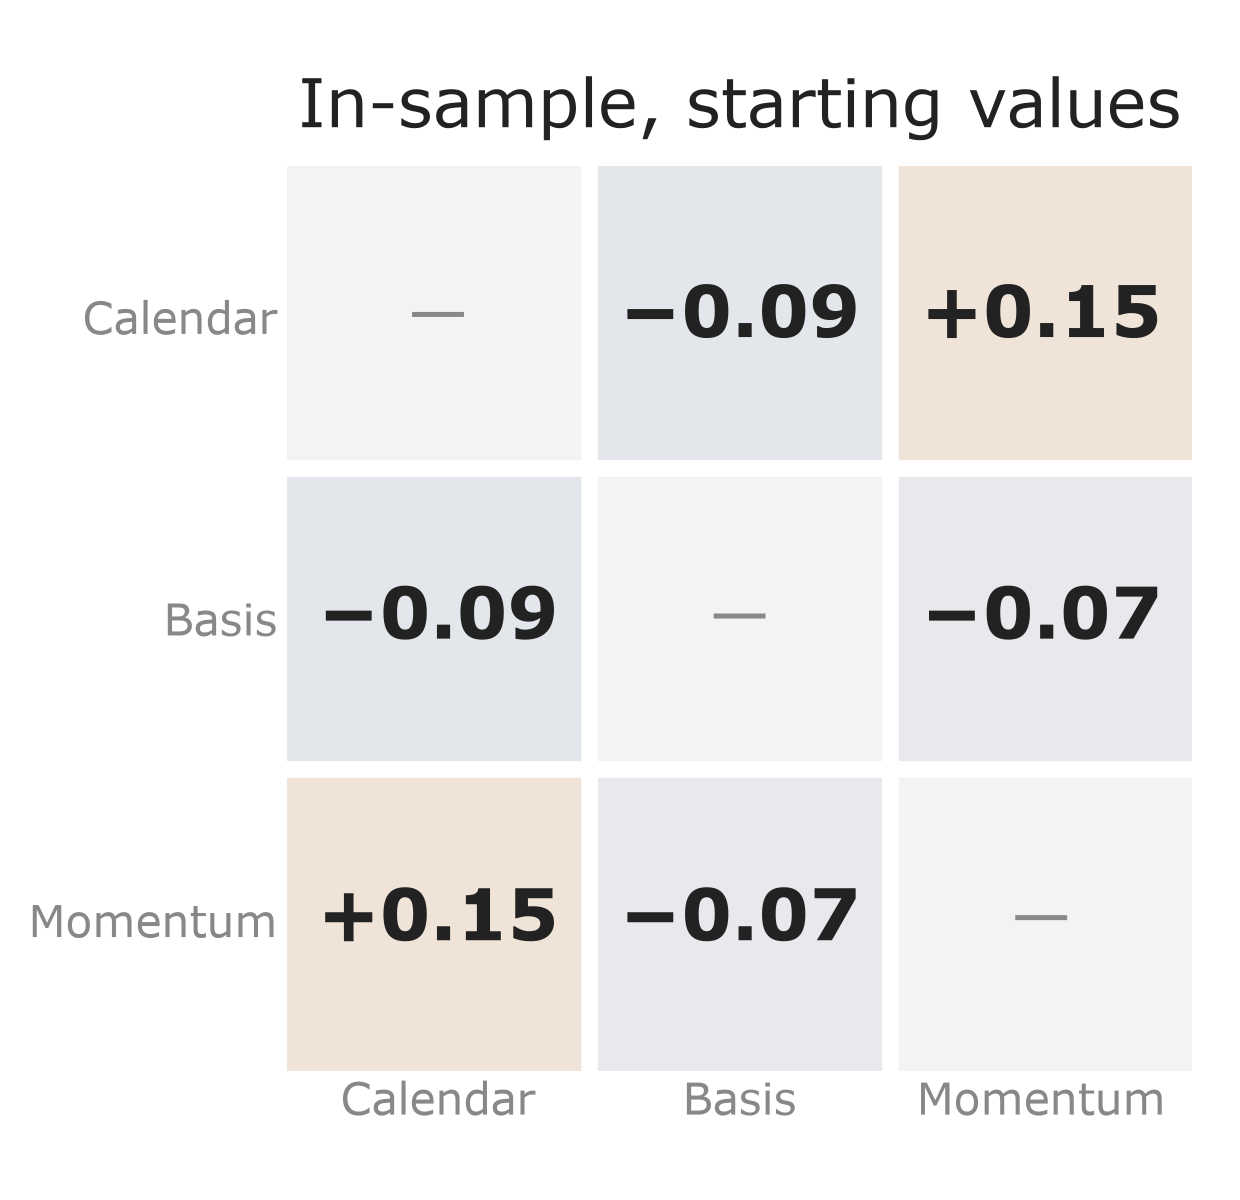
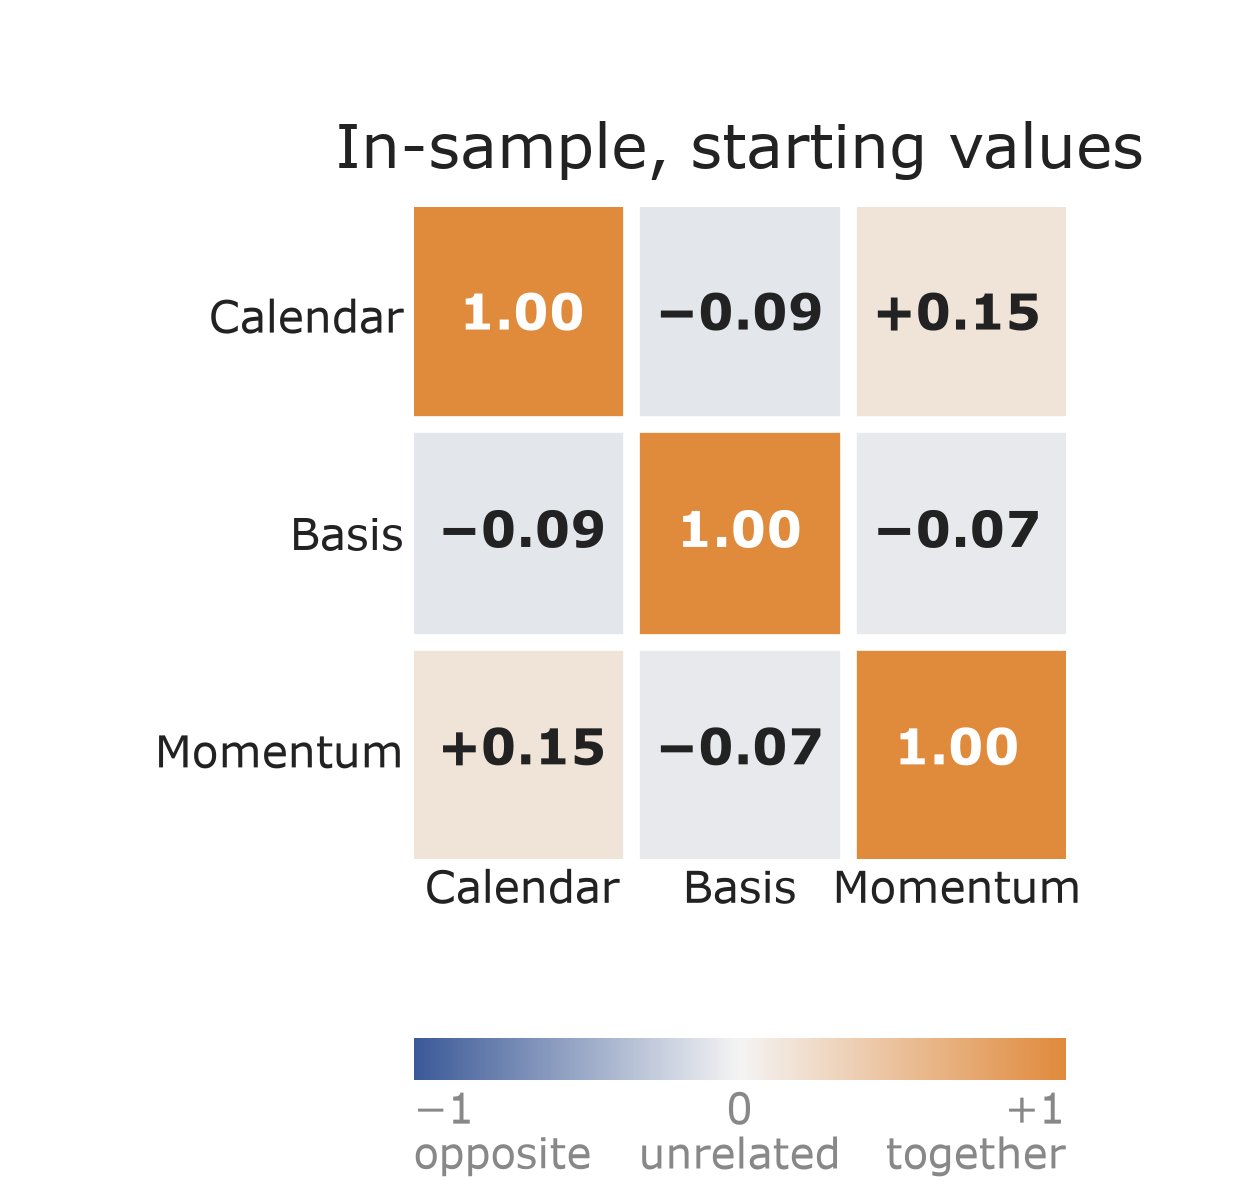
feat(figures): full 3x3 correlation matrix with its own scale; yearly in-sample profit as grouped bars

Changed region(s): [[0.0306, 0.0617, 0.9806, 0.9867]]

diff --git a/scripts/plot_calibrum_1m.py b/scripts/plot_calibrum_1m.py
@@ -9,6 +9,7 @@
 - period_equity_<period>_*.png (steps 5 and 6): one period at a time with the
   step-5 parameters, the same two panels, every curve starting at zero at the
   period's first session.
+- yearly_in_sample.png (step 4): in-sample net profit by year of the seven combinations.
 - correlation_*.png: daily-profit correlation of the sleeves as heatmaps
   (in-sample with the starting values; each period with the step-5 ones).
 
@@ -207,10 +208,10 @@ def draw_period(source: Path, start: str, end: str, out_stem: Path, size_px: tup
 
 
 def draw_correlation(matrices: dict[str, dict], out: Path, size_px: tuple[int, int]) -> Path:
-    """Daily-profit correlation of the three sleeves as heatmaps, one per title, on a fixed -1..+1 scale.
+    """Daily-profit correlation of the three sleeves as a full matrix, one per title, on a fixed -1..+1 scale.
 
     Diverging blue (negative) to orange (positive) through a neutral grey at zero;
-    the diagonal is left grey, and every cell carries its value.
+    every cell carries its value, and the colour scale under the matrices reads by itself.
     """
     from matplotlib.colors import LinearSegmentedColormap
 
@@ -223,25 +224,74 @@ def draw_correlation(matrices: dict[str, dict], out: Path, size_px: tuple[int, i
     fig.patch.set_facecolor(SURFACE)
     for ax, (title, matrix) in zip(axes, matrices.items()):
         values = pd.DataFrame(matrix).loc[names, names].to_numpy(float)
-        shown = values.copy()
-        for i in range(3):
-            shown[i, i] = 0.0
-        ax.imshow(shown, cmap=cmap, vmin=-1, vmax=1)
+        image = ax.imshow(values, cmap=cmap, vmin=-1, vmax=1)
         for i in range(3):
             for j in range(3):
-                text = "—" if i == j else f"{values[i, j]:+.2f}".replace("-", "\u2212")
-                ax.text(j, i, text, ha="center", va="center", color=INK if i != j else MUTED,
-                        fontsize=26 if i != j else 22, fontweight="bold" if i != j else "normal")
-        ax.set_xticks(range(3), labels, color=MUTED)
-        ax.set_yticks(range(3), labels if ax is axes[0] else [""] * 3, color=MUTED)
-        ax.tick_params(length=0)
+                ax.text(j, i, f"{values[i, j]:+.2f}".replace("-", "\u2212").replace("+1.00", "1.00"), ha="center",
+                        va="center", color=SURFACE if i == j else INK, fontsize=18, fontweight="bold")
+        ax.set_xticks(range(3), labels, color=INK)
+        ax.set_yticks(range(3), labels if ax is axes[0] else [""] * 3, color=INK)
         for spine in ax.spines.values():
             spine.set_visible(False)
-        ax.set_xticks([x - 0.5 for x in range(1, 3)], minor=True)
-        ax.set_yticks([y - 0.5 for y in range(1, 3)], minor=True)
+        ax.set_xticks([0.5, 1.5], minor=True)
+        ax.set_yticks([0.5, 1.5], minor=True)
         ax.grid(which="minor", color=SURFACE, linewidth=6)
         ax.tick_params(which="both", length=0)
-        ax.set_title(title, color=INK, fontsize=24, pad=14)
+        ax.set_title(title, color=INK, fontsize=22, pad=14)
+    fig.tight_layout(rect=(0, 0.2, 1, 0.94))
+    left = min(ax.get_position().x0 for ax in axes)
+    right = max(ax.get_position().x1 for ax in axes)
+    bar = fig.add_axes((left, 0.1, right - left, 0.035))
+    scale = fig.colorbar(image, cax=bar, orientation="horizontal", ticks=[-1, 0, 1])
+    scale.ax.set_xticklabels(["\u22121\nopposite", "0\nunrelated", "+1\ntogether"], color=MUTED, fontsize=FONT_SIZE)
+    scale.ax.tick_params(length=0)
+    ends = scale.ax.get_xticklabels()
+    ends[0].set_horizontalalignment("left")
+    ends[-1].set_horizontalalignment("right")
+    scale.outline.set_visible(False)
+    out.parent.mkdir(parents=True, exist_ok=True)
+    fig.savefig(out, dpi=DPI, facecolor=SURFACE)
+    plt.close(fig)
+    return out
+
+
+def draw_yearly(yearly: dict[str, dict], out: Path, size_px: tuple[int, int]) -> Path:
+    """Net profit by year of the seven combinations as grouped bars, one blue per year, light to dark.
+
+    Only the bars of all three carry their value; C+B+M sits on a grey band.
+    """
+    combos = ["C", "B", "M", "C+B", "C+M", "B+M", "C+B+M"]
+    years = sorted(yearly["C+B+M"])
+    shades = ["#B4C1DE", "#7489BC", ACCENT][-len(years):]
+    labels = {"2020": "2020 (Jun–Dec)"}
+    plt.rcParams.update({"font.family": FONT, "font.size": FONT_SIZE + 1, "axes.edgecolor": GRID})
+    fig, ax = plt.subplots(figsize=(2 * size_px[0] / DPI, 2 * size_px[1] / DPI))
+    fig.patch.set_facecolor(SURFACE)
+    ax.set_facecolor(SURFACE)
+    width = 0.27
+    centres = [i + (0.4 if i >= 3 else 0) + (0.4 if i >= 6 else 0) for i in range(len(combos))]
+    ax.axvspan(centres[-1] - 0.5, centres[-1] + 0.5, color=SHADE, linewidth=0)
+    top = max(v for combo in combos for v in yearly[combo].values()) * MILLION_VND_PER_POINT
+    for k, (year, colour) in enumerate(zip(years, shades)):
+        xs = [c + (k - 1) * width for c in centres]
+        values = [yearly[combo][year] * MILLION_VND_PER_POINT for combo in combos]
+        ax.bar(xs, values, width=width, color=colour, edgecolor=SURFACE, linewidth=2, label=labels.get(year, year))
+        ax.annotate(f"{values[-1]:.0f}", xy=(xs[-1], values[-1]), xytext=(0, 6), textcoords="offset points",
+                    ha="center", va="bottom", color=INK, fontsize=FONT_SIZE - 3)
+    ax.set_xticks(centres, combos, color=INK)
+    for tick in ax.get_xticklabels()[-1:]:
+        tick.set_fontweight("bold")
+    ax.axhline(0, color=MUTED, linewidth=1)
+    ax.grid(axis="y", color=GRID, linewidth=1)
+    ax.set_axisbelow(True)
+    ax.set_ylim(0, top * 1.22)
+    ax.set_xlim(centres[0] - 0.6, centres[-1] + 0.6)
+    ax.tick_params(colors=MUTED, length=0)
+    ax.tick_params(axis="x", colors=INK)
+    for side in ("top", "right", "left"):
+        ax.spines[side].set_visible(False)
+    ax.set_ylabel("Net profit, million VND", color=MUTED)
+    ax.legend(loc="upper left", ncol=len(years), frameon=False, labelcolor=INK, handlelength=1.2, columnspacing=1.4)
     fig.tight_layout()
     out.parent.mkdir(parents=True, exist_ok=True)
     fig.savefig(out, dpi=DPI, facecolor=SURFACE)
@@ -252,6 +302,8 @@ def draw_correlation(matrices: dict[str, dict], out: Path, size_px: tuple[int, i
 def main() -> int:
     for path in draw(REPORTS / "in_sample_baseline.json", FIGURES / "in_sample_equity", (1664, 640), mark_periods=False):
         print(path)
+    yearly = json.loads((REPORTS / "in_sample_baseline.json").read_text(encoding="utf-8"))["yearly_net_points"]
+    print(draw_yearly(yearly, FIGURES / "yearly_in_sample.png", (980, 520)))
     if (REPORTS / "oos2.json").exists():
         for path in draw(REPORTS / "oos2.json", FIGURES / "full_equity", (1664, 640), mark_periods=True):
             print(path)
